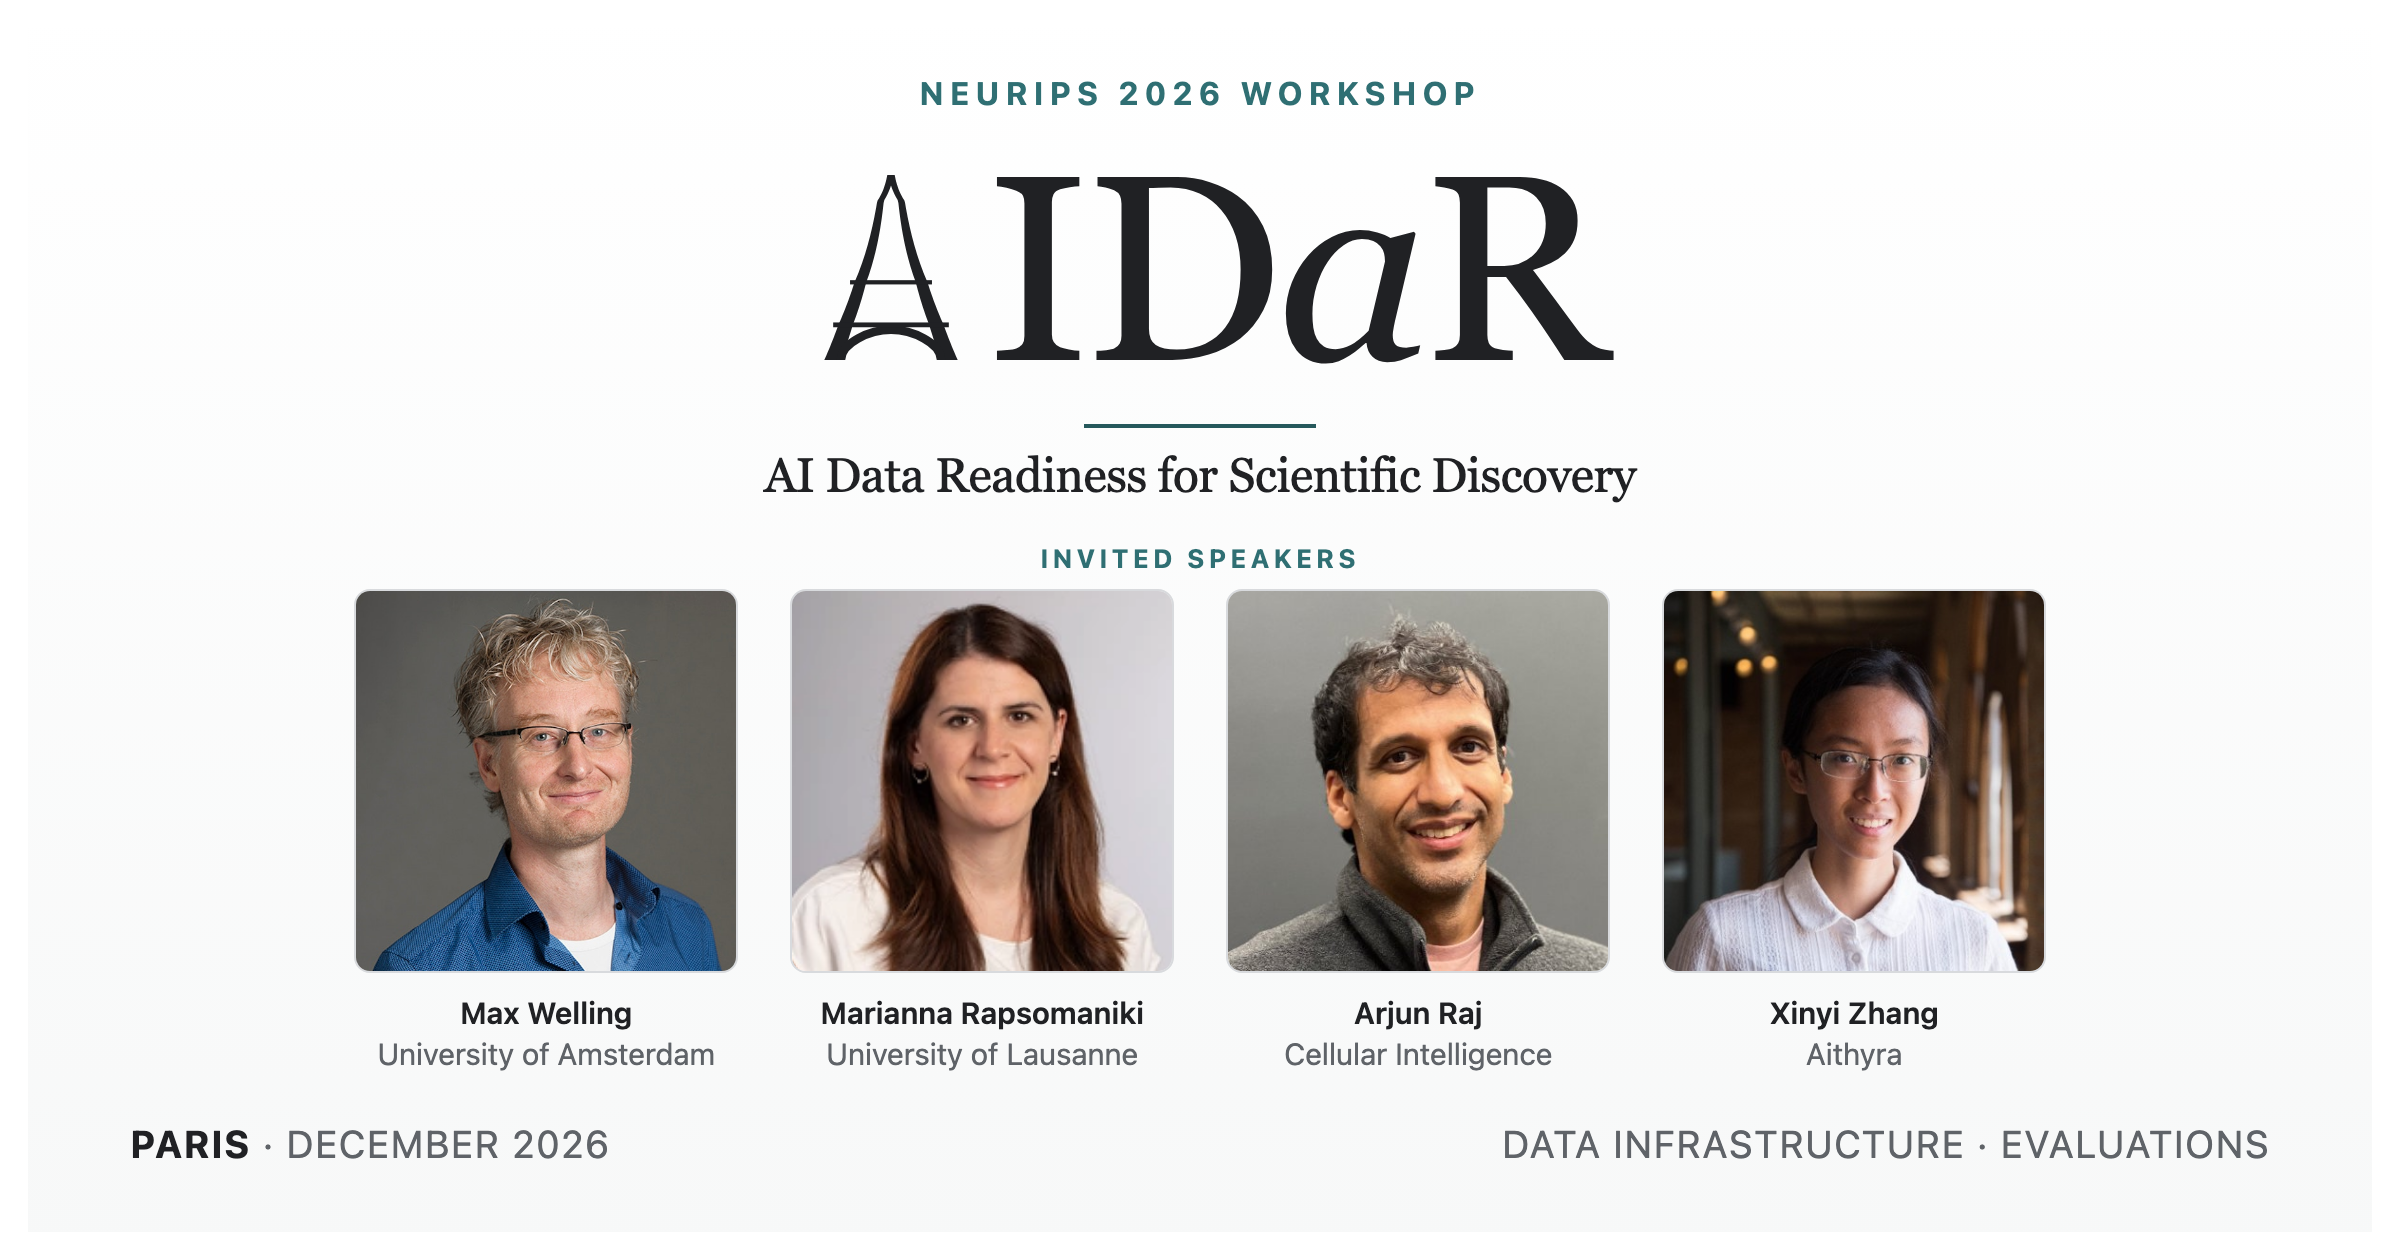
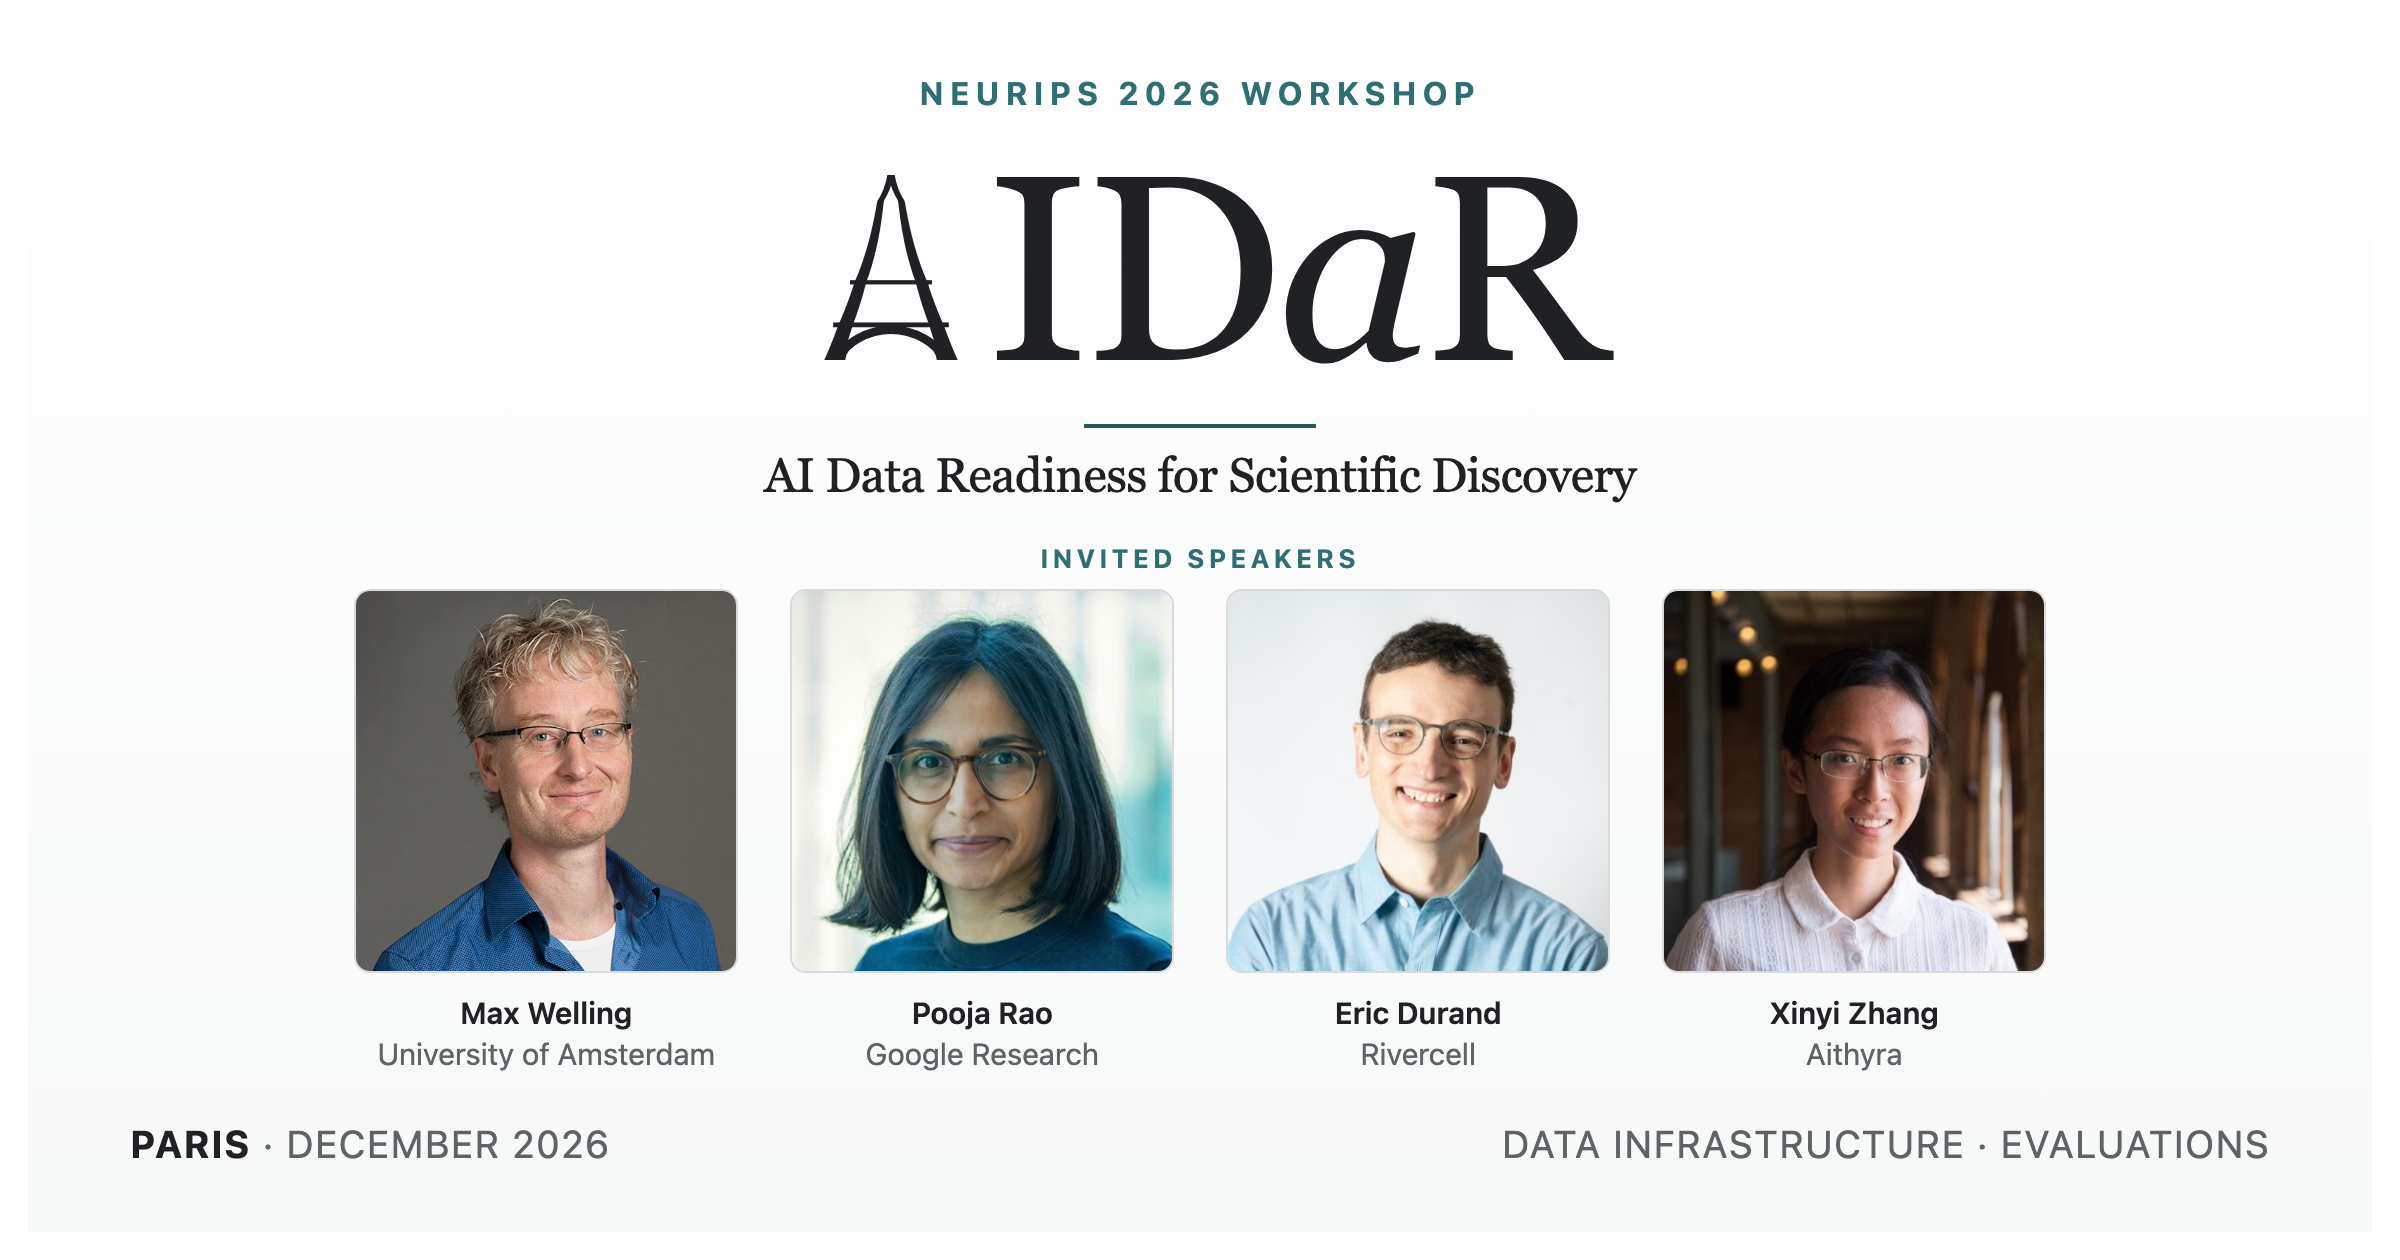
feat: Pooja Rao and Eric Durand join the invited speakers; Karin Hrovatin moves to Inherent
Pooja Rao (Google Research) takes Marianna Rapsomaniki's place and Eric
Durand (Rivercell) takes Arjun Raj's. Pooja moves off the panel, which
keeps her once among the people strips; she still leads a breakout.
Karin Hrovatin's affiliation is now Inherent, per her LinkedIn profile
title.

Twelve panelists split evenly at the 900px strip width — six and six —
where the 980px chosen for thirteen would leave seven and five, so the
width goes back to 900px and the comment records why each count wants
its own.

The three black-and-white portraits (Pablo Meyer Rojas, Jon Laurent,
Pierce Ogden — chroma 0.0 against 20.7 for the most muted colour one)
sat bunched at the right of the strip. They move to three corners, with
James McGann, the most muted colour portrait, in the fourth, so the grey
frames the panel instead of pooling in it. Karin Hrovatin stays in the
middle pair of the top row, and the two Polyphron panelists stay
side by side.

The share card carries the speaker lineup, so it is rebuilt with the new
pair and its content hash is restamped into og:image in both index files,
which keeps scrapers from serving the old faces. build_og.sh also
re-renders the clean card, avatar, touch icon and LinkedIn cover; their
sources did not change but Chrome's output did, so those four are left at
their committed bytes rather than shipping renderer drift.

The departing speakers' photos stay in assets/speakers, as earlier
departures' did.

Changed region(s): [[0.3125, 0.4643, 0.6875, 0.8667]]

diff --git a/2026/index.html b/2026/index.html
@@ -30,13 +30,13 @@
       property="og:description"
       content="A NeurIPS 2026 workshop in Paris on how scientific data should be organized for models and agents, and how evaluations should determine where frontier models are reliable."
     >
-    <meta property="og:image" content="https://aidar-workshop.github.io/2026/assets/brand/aidar-og-lineup.png?v=6f8cf782">
+    <meta property="og:image" content="https://aidar-workshop.github.io/2026/assets/brand/aidar-og-lineup.png?v=c7e0f3c0">
     <meta property="og:image:type" content="image/png">
     <meta property="og:image:width" content="2400">
     <meta property="og:image:height" content="1260">
     <meta
       property="og:image:alt"
-      content="AIDaR, set with the Eiffel Tower as its A, above portraits of the four invited speakers: Max Welling, Marianna Rapsomaniki, Arjun Raj and Xinyi Zhang."
+      content="AIDaR, set with the Eiffel Tower as its A, above portraits of the four invited speakers: Max Welling, Pooja Rao, Eric Durand and Xinyi Zhang."
     >
     <meta name="twitter:card" content="summary_large_image">
     <meta name="twitter:title" content="AIDaR: AI Data Readiness for Scientific Discovery">
@@ -44,7 +44,7 @@
       name="twitter:description"
       content="A NeurIPS 2026 workshop in Paris on scientific data infrastructure and evaluations for reliable scientific AI systems."
     >
-    <meta name="twitter:image" content="https://aidar-workshop.github.io/2026/assets/brand/aidar-og-lineup.png?v=6f8cf782">
+    <meta name="twitter:image" content="https://aidar-workshop.github.io/2026/assets/brand/aidar-og-lineup.png?v=c7e0f3c0">
 
     <link rel="icon" href="/favicon.svg" type="image/svg+xml">
     <link rel="apple-touch-icon" href="/apple-touch-icon.png">
@@ -145,12 +145,12 @@
               <figcaption><strong><a href="https://amlab.science.uva.nl/people/MaxWelling/">Max Welling</a></strong><span>University of Amsterdam</span></figcaption>
             </figure>
             <figure>
-              <img src="assets/speakers/marianna-rapsomaniki.webp" alt="Marianna Rapsomaniki">
-              <figcaption><strong><a href="https://www.chuv.ch/en/bdsc/research-group/web_run_26/rapsomaniki-group">Marianna Rapsomaniki</a></strong><span>University of Lausanne</span></figcaption>
+              <img src="assets/speakers/pooja-rao.jpg" alt="Pooja Rao">
+              <figcaption><strong><a href="https://www.linkedin.com/in/raopooja">Pooja Rao</a></strong><span>Google Research</span></figcaption>
             </figure>
             <figure>
-              <img src="assets/speakers/arjun-raj.jpg" alt="Arjun Raj">
-              <figcaption><strong><a href="https://www.linkedin.com/in/arjun-raj-427bba59/">Arjun Raj</a></strong><span>Cellular Intelligence</span></figcaption>
+              <img src="assets/speakers/eric-durand.jpg" alt="Eric Durand">
+              <figcaption><strong><a href="https://www.linkedin.com/in/eydurand">Eric Durand</a></strong><span>Rivercell</span></figcaption>
             </figure>
             <figure>
               <img src="assets/speakers/xinyi-zhang.jpg" alt="Xinyi Zhang">
@@ -163,6 +163,10 @@
           <h2>Panelists</h2>
           <div class="people-strip panelists">
             <figure>
+              <img src="assets/panelists/pablo-meyer-rojas.jpg" alt="Pablo Meyer Rojas">
+              <figcaption><strong><a href="https://research.ibm.com/people/pablo-meyer-rojas">Pablo Meyer Rojas</a></strong><span>IBM Research / DREAM</span></figcaption>
+            </figure>
+            <figure>
               <img src="assets/panelists/harihara-muralidharan.jpg" alt="Harihara Muralidharan">
               <figcaption><strong><a href="https://hsmurali.github.io/">Harihara Muralidharan</a></strong><span>LatchBio</span></figcaption>
             </figure>
@@ -171,20 +175,20 @@
               <figcaption><strong><a href="https://www.linkedin.com/in/kexinhuang/">Kexin Huang</a></strong><span>Phylo / Biomni</span></figcaption>
             </figure>
             <figure>
+              <img src="assets/panelists/karin-hrovatin.jpg" alt="Karin Hrovatin">
+              <figcaption><strong><a href="https://www.linkedin.com/in/karin-hrovatin-3817a6150/">Karin Hrovatin</a></strong><span>Inherent</span></figcaption>
+            </figure>
+            <figure>
               <img src="assets/panelists/hasan-poonawala.jpg" alt="Hasan Poonawala">
               <figcaption><strong><a href="https://www.linkedin.com/in/hasanp/">Hasan Poonawala</a></strong><span>AWS</span></figcaption>
             </figure>
             <figure>
-              <img src="assets/panelists/karin-hrovatin.jpg" alt="Karin Hrovatin">
-              <figcaption><strong><a href="https://www.linkedin.com/in/karin-hrovatin-3817a6150/">Karin Hrovatin</a></strong><span>Merck KGaA</span></figcaption>
-            </figure>
-            <figure>
-              <img src="assets/panelists/pablo-meyer-rojas.jpg" alt="Pablo Meyer Rojas">
-              <figcaption><strong><a href="https://research.ibm.com/people/pablo-meyer-rojas">Pablo Meyer Rojas</a></strong><span>IBM Research / DREAM</span></figcaption>
-            </figure>
-            <figure>
               <img src="assets/panelists/jon-laurent.webp" alt="Jon Laurent">
               <figcaption><strong><a href="https://www.linkedin.com/in/jon-laurent-37875566">Jon Laurent</a></strong><span>Edison Scientific</span></figcaption>
+            </figure>
+            <figure>
+              <img src="assets/panelists/james-mcgann.jpg" alt="James McGann">
+              <figcaption><strong><a href="https://www.linkedin.com/in/jpmcga/">James McGann</a></strong><span>AtlasXomics</span></figcaption>
             </figure>
             <figure>
               <img src="assets/panelists/stefan-harrer.jpg" alt="Stefan Harrer">
@@ -199,20 +203,12 @@
               <figcaption><strong><a href="https://www.linkedin.com/in/fabio-boniolo">Fabio Boniolo</a></strong><span>Polyphron</span></figcaption>
             </figure>
             <figure>
-              <img src="assets/panelists/pierce-ogden.png" alt="Pierce Ogden">
-              <figcaption><strong><a href="https://www.linkedin.com/in/pierce-ogden-470b3836/">Pierce Ogden</a></strong><span>Manifold Bio</span></figcaption>
-            </figure>
-            <figure>
-              <img src="assets/panelists/james-mcgann.jpg" alt="James McGann">
-              <figcaption><strong><a href="https://www.linkedin.com/in/jpmcga/">James McGann</a></strong><span>AtlasXomics</span></figcaption>
-            </figure>
-            <figure>
               <img src="assets/panelists/leonard-mccline.jpg" alt="Leonard McCline">
               <figcaption><strong><a href="https://www.linkedin.com/in/leonard-mccline-700608156">Leonard McCline</a></strong><span>Portal Biotech</span></figcaption>
             </figure>
             <figure>
-              <img src="assets/panelists/pooja-rao.jpg" alt="Pooja Rao">
-              <figcaption><strong><a href="https://www.linkedin.com/in/raopooja">Pooja Rao</a></strong><span>Google Research</span></figcaption>
+              <img src="assets/panelists/pierce-ogden.png" alt="Pierce Ogden">
+              <figcaption><strong><a href="https://www.linkedin.com/in/pierce-ogden-470b3836/">Pierce Ogden</a></strong><span>Manifold Bio</span></figcaption>
             </figure>
           </div>
         </div>

diff --git a/index.html b/index.html
@@ -16,11 +16,11 @@
       property="og:description"
       content="A NeurIPS 2026 workshop in Paris on how scientific data should be organized for models and agents, and how evaluations should determine where frontier models are reliable."
     >
-    <meta property="og:image" content="https://aidar-workshop.github.io/2026/assets/brand/aidar-og-lineup.png?v=6f8cf782">
+    <meta property="og:image" content="https://aidar-workshop.github.io/2026/assets/brand/aidar-og-lineup.png?v=c7e0f3c0">
     <meta property="og:image:width" content="2400">
     <meta property="og:image:height" content="1260">
     <meta name="twitter:card" content="summary_large_image">
-    <meta name="twitter:image" content="https://aidar-workshop.github.io/2026/assets/brand/aidar-og-lineup.png?v=6f8cf782">
+    <meta name="twitter:image" content="https://aidar-workshop.github.io/2026/assets/brand/aidar-og-lineup.png?v=c7e0f3c0">
 
     <link rel="icon" href="/favicon.svg" type="image/svg+xml">
     <link rel="apple-touch-icon" href="/apple-touch-icon.png">

diff --git a/2026/styles.css b/2026/styles.css
@@ -228,18 +228,17 @@ ul {
   width: 130px;
 }
 
-/* Thirteen panelists cannot hold one row at a legible portrait size, so the
+/* Twelve panelists cannot hold one row at a legible portrait size, so the
    strip wraps like the invited and advisors strips do. The width is chosen to
    keep the last row from being a short orphan, and so has to be revisited each
-   time the count changes: at 900px, which fitted six across and split eleven
-   into six and five, thirteen came out as six, six and one. 980px fits seven —
-   the width the organizers row already runs at — splitting thirteen into seven
-   and six. */
+   time the count changes. 900px fits six across, splitting twelve into two
+   even rows of six; 980px fits seven, which suited thirteen (seven and six)
+   but leaves twelve as seven and five. */
 .people-strip.panelists {
   display: flex;
   flex-wrap: wrap;
   justify-content: center;
-  max-width: 980px;
+  max-width: 900px;
   margin: 0 auto;
 }
 

diff --git a/2026/assets/brand/og-card.html b/2026/assets/brand/og-card.html
@@ -191,12 +191,12 @@
               <figcaption>Max Welling<span class="where">University of Amsterdam</span></figcaption>
             </figure>
             <figure>
-              <img src="../speakers/marianna-rapsomaniki.webp" alt="">
-              <figcaption>Marianna Rapsomaniki<span class="where">University of Lausanne</span></figcaption>
+              <img src="../speakers/pooja-rao.jpg" alt="">
+              <figcaption>Pooja Rao<span class="where">Google Research</span></figcaption>
             </figure>
             <figure>
-              <img src="../speakers/arjun-raj.jpg" alt="">
-              <figcaption>Arjun Raj<span class="where">Cellular Intelligence</span></figcaption>
+              <img src="../speakers/eric-durand.jpg" alt="">
+              <figcaption>Eric Durand<span class="where">Rivercell</span></figcaption>
             </figure>
             <figure>
               <img src="../speakers/xinyi-zhang.jpg" alt="">
